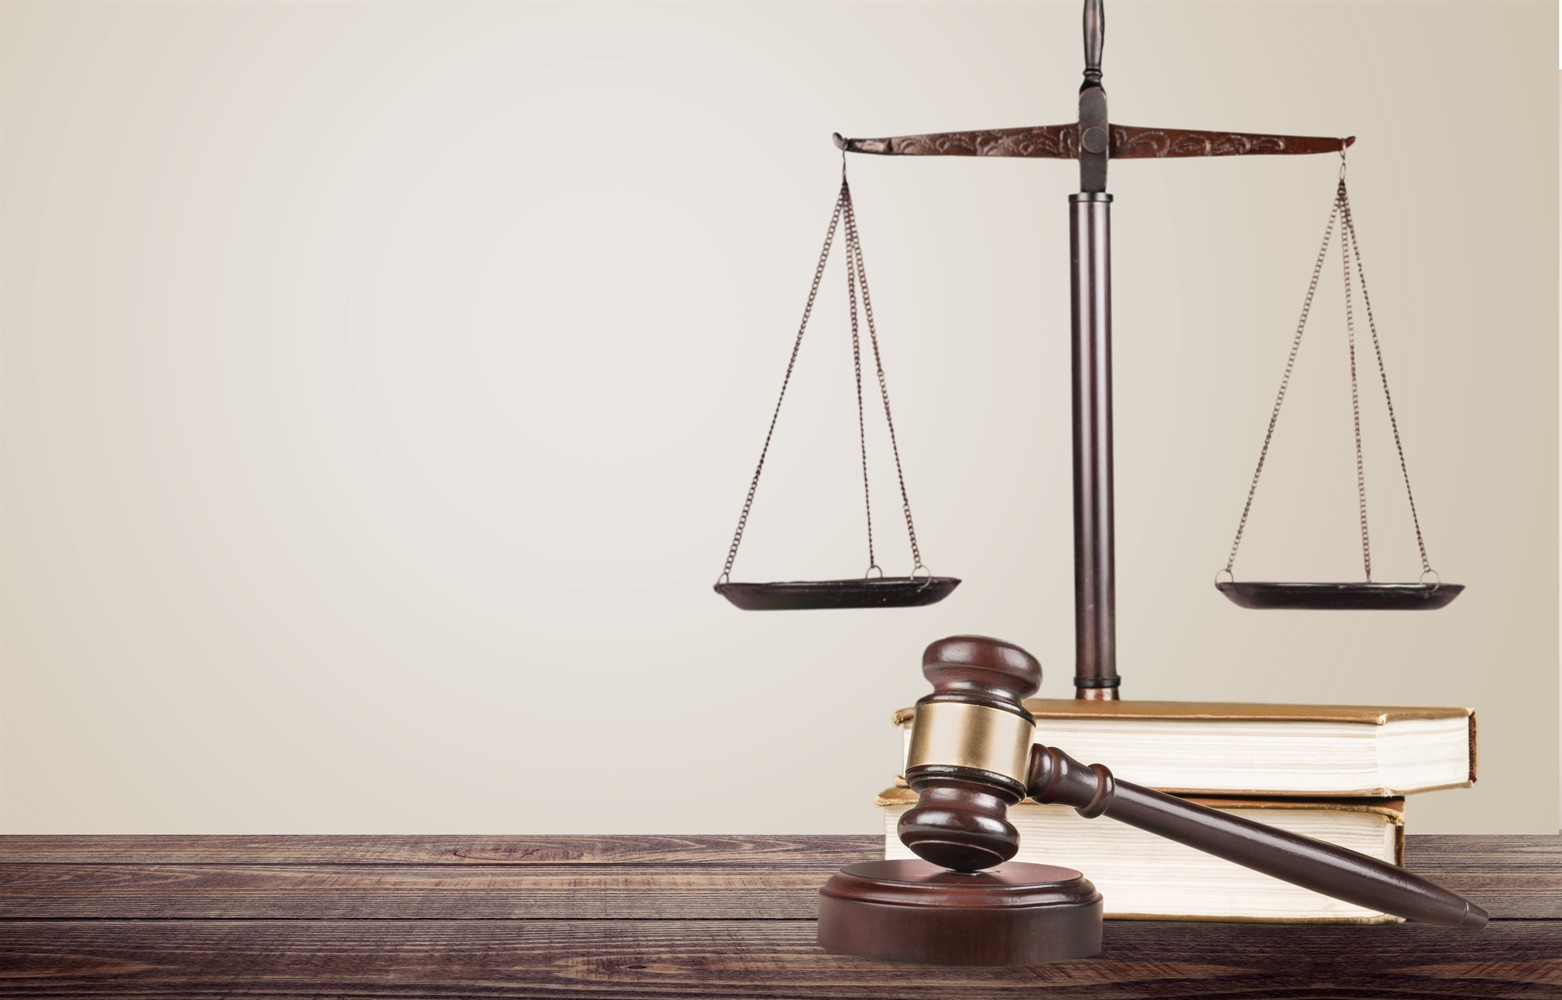
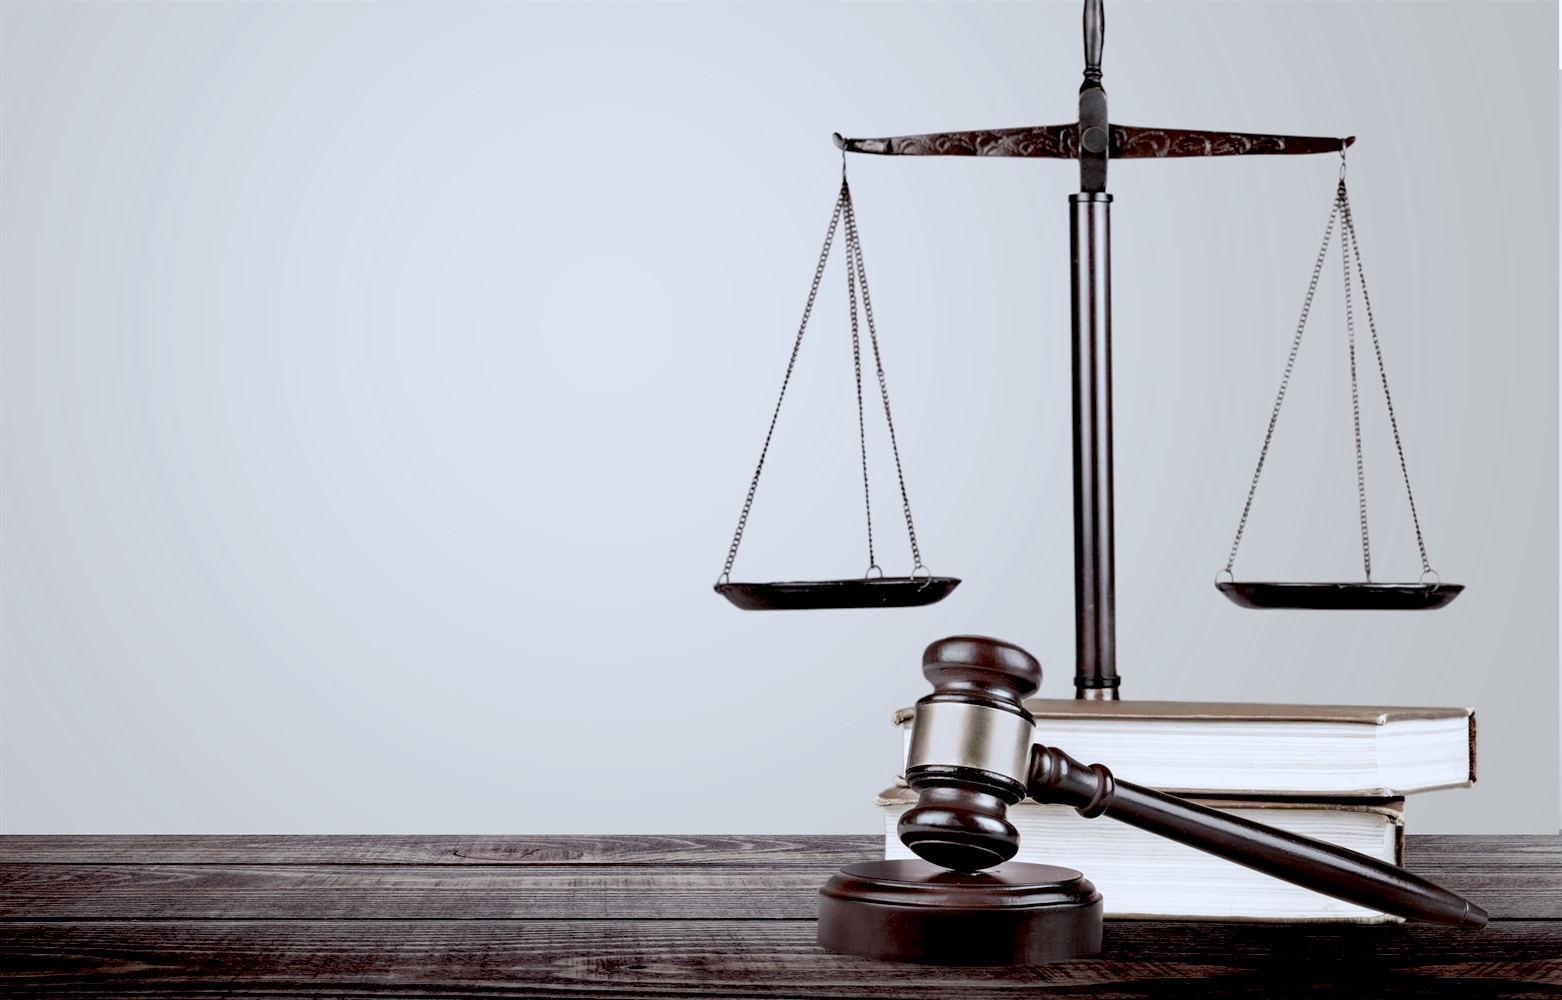
Adjust images on legal rights page

Changed region(s): [[0.0, 0.0, 1.0, 1.0], [0.7682, 0.558, 0.9526, 0.62], [0.5224, 0.186, 0.5531, 0.217]]

diff --git a/iterations/iteration3/DES-Colorblind/legalrights.css b/iterations/iteration3/DES-Colorblind/legalrights.css
@@ -680,7 +680,7 @@
 .u-section-8 {min-height: 1290px}
 .u-section-8 .u-text-1 {font-size: 3rem; font-weight: 700; margin: 70px calc(((100% - 1140px) / 2) + 423px) 0 calc(((100% - 1140px) / 2) + 441px)}
 .u-section-8 .u-layout-wrap-1 {width: calc(((100% - 1140px) / 2) + 1140px); margin: 58px 0 0 auto}
-.u-section-8 .u-image-1 {min-height: 1008px; background-image: url("images/73266121-0.png")}
+.u-section-8 .u-image-1 {min-height: 1000px; background-image: url("images/73266121-0.png"); height:50%; width:50%}
 .u-section-8 .u-container-layout-1 {padding: 30px 30px 30px 70px}
 .u-section-8 .u-layout-cell-2 {min-height: 691px}
 .u-section-8 .u-container-layout-2 {padding: 30px 50px}

diff --git a/iterations/iteration3/DES-Colorblind/travelsupport.html b/iterations/iteration3/DES-Colorblind/travelsupport.html
@@ -138,7 +138,7 @@
                   </div>
                 </div>
               </div>
-              <p class="u-align-center u-custom-font u-text-palette-1-dark-2  u-text" style="font-family: Ubuntu; font-weight: 700; font-size:1.19rem; width:100%">
+              <p class="u-align-center u-custom-font u-text-palette-1-dark-2  u-text" style="font-family: Ubuntu; font-weight: 600; font-size:1.19rem; width:100%">
                 Save your time serching in web and get the services at your front door. 
                 <br>The best disability transport services in Victoria are just a click away. 
                 <br>Explore public transport accessibility options below.

diff --git a/iterations/iteration3/DES-Normal/travelsupport.html b/iterations/iteration3/DES-Normal/travelsupport.html
@@ -104,7 +104,7 @@
                 </div>
               </div>
             </div>
-            <p class="u-align-center u-custom u-text-palette-1-dark-2  u-text" style="font-family: Ubuntu; font-weight: 700; font-size:1.19rem; width:100%">
+            <p class="u-align-center u-custom u-text-palette-1-dark-2  u-text" style="font-family: Ubuntu; font-weight: 600; font-size:1.19rem; width:100%">
               Save your time serching in web and get the services at your front door. 
               <br>The best disability transport services in Victoria are just a click away. 
               <br>Explore public transport accessibility options below.
